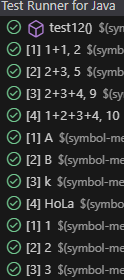
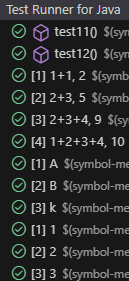
cambios 11 y 12

diff --git a/README.md b/README.md
@@ -588,26 +588,7 @@ public int parse(String expression) {
 ![Pasa](Capturas/test11.png "Pasa")
 
 **EJ11. Refactorización**
-> Vamos a unificar el caso "HoLa" dentro de la expresión existente ([a-zA-Z]+) que valida si la entrada contiene únicamente letras. Esta refactorización la hacemos para mantener el código simple y mantenible, evitando tener multiples ifs. En los tests simplemente metemos el nuevo caso dentro del test parametrizado.
-
-```java
-public int parse(String expression) {
-    if (expression.matches("[a-zA-Z]+")) {
-        throw new IllegalArgumentException("Invalid expression");
-    }
-    String[] tokens = expression.split("\\+");
-    int result = 0;
-    for (String token : tokens) {
-        result += Integer.parseInt(token.trim());
-    }
-    return result;
-}
-```
-**EJ11. Captura de que TODOS los tests PASAN tras la refactorización**
-
-![Pasa](Capturas/test8to11.png "Pasa")
-
-
+> No es necesario.
 
 <br>
 
@@ -627,7 +608,9 @@ public void test12(){
 
 **EJ12. Mensaje del test añadido que NO PASA**
 
+```log
 org.opentest4j.AssertionFailedError: expected: <Invalid expression> but was: <For input string: "A">
+```
 
 **EJ12. Código mínimo para que el test pase**
 
@@ -635,7 +618,9 @@ Metemos el if para el nuevo caso.
 
 ```java
 public int parse(String expression) {
-    if (expression.matches("[a-zA-Z]+")) {
+    if (expression.matches("[a-zA-Z]")) {
+        throw new IllegalArgumentException("Invalid expression");
+    } else if (expression == "HoLa") {
         throw new IllegalArgumentException("Invalid expression");
     } else if (expression == "1 + A") {
         throw new IllegalArgumentException("Invalid expression");
@@ -654,7 +639,8 @@ public int parse(String expression) {
 ![Pasa](Capturas/test12.png "Pasa")
 
 **EJ12. Refactorización**
-> Se ha eliminado la condición específica para "1 + A" y se ha reemplazado por una validación más general y robusta, que asegura que todos los tokens separados por + sean numéricos. Eliminamos código hardcodeado que no escala ni es mantenible.
+> Vamos a eliminar el código duplicado y añadir las funcinalidades necesarias de forma que el código sea sencillo y mantenible. 
+
 ```java
 public int parse(String expression) {
     if (expression.matches("[a-zA-Z]+")) {
@@ -681,3 +667,5 @@ public int parse(String expression) {
 
 
 <br>
+
+
